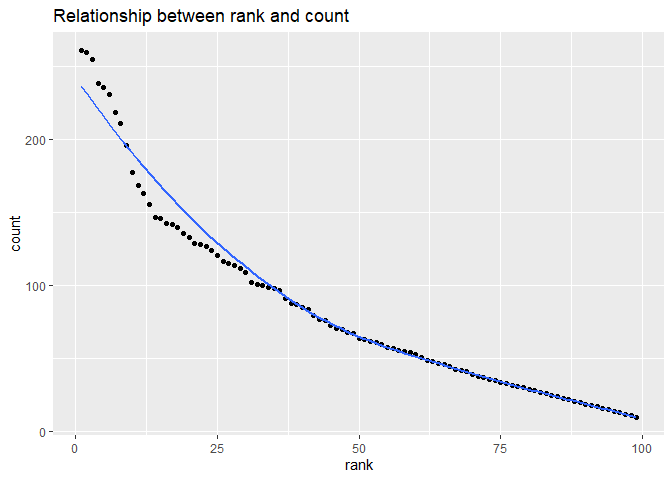
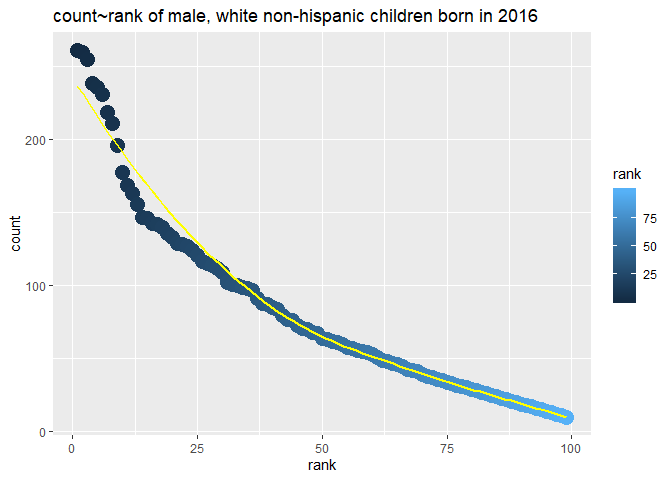
last commit

diff --git a/hw2-gx2144-to-Jeff.md b/hw2-gx2144-to-Jeff.md
@@ -155,14 +155,14 @@ snp =
   mutate(
     month = month.abb[month])
 
-unemplyment = 
+unemployment = 
   read.csv("./data/unemployment.csv")
-unemplyment = 
+unemployment = 
   pivot_longer(
-    unemplyment, 
+    unemployment, 
     Jan:Dec,
     names_to = "month", 
-    values_to = "unemplyment") %>% 
+    values_to = "unemployment") %>% 
   rename(year = Year)  %>%
   mutate(
     year = as.character(year)
@@ -180,7 +180,7 @@ result =
 
 ``` r
 finalresult = 
-  left_join(result, unemplyment, by = c("year","month"))
+  left_join(result, unemployment, by = c("year","month"))
 head(finalresult,5)
 ```
 
@@ -190,12 +190,12 @@ head(finalresult,5)
     ## 3 1947   Mar      23      51     253      23      45     198       gop
     ## 4 1947   Apr      23      51     253      23      45     198       gop
     ## 5 1947   May      23      51     253      23      45     198       gop
-    ##    day close unemplyment
-    ## 1 <NA>    NA          NA
-    ## 2 <NA>    NA          NA
-    ## 3 <NA>    NA          NA
-    ## 4 <NA>    NA          NA
-    ## 5 <NA>    NA          NA
+    ##    day close unemployment
+    ## 1 <NA>    NA           NA
+    ## 2 <NA>    NA           NA
+    ## 3 <NA>    NA           NA
+    ## 4 <NA>    NA           NA
+    ## 5 <NA>    NA           NA
 
 ``` r
 tail(finalresult,5)## show part of the table
@@ -207,17 +207,25 @@ tail(finalresult,5)## show part of the table
     ## 820 2015   Apr      31      54     244      18      44     188       gop
     ## 821 2015   May      31      54     245      18      44     188       gop
     ## 822 2015   Jun      31      54     246      18      44     188       gop
-    ##     day   close unemplyment
-    ## 818   2 2104.50         5.5
-    ## 819   2 2067.89         5.5
-    ## 820   1 2085.51         5.4
-    ## 821   1 2107.39         5.5
-    ## 822   1 2063.11         5.3
+    ##     day   close unemployment
+    ## 818   2 2104.50          5.5
+    ## 819   2 2067.89          5.5
+    ## 820   1 2085.51          5.4
+    ## 821   1 2107.39          5.5
+    ## 822   1 2063.11          5.3
 
 \*\*summary datasets
 
-There are 9 columns and 822 rows in pols\_month dataset. Variable names
-are “year”,“month”,“prez\_gop”,“sen\_gop” ""
+There are 9 columns and 822 rows in pols\_month dataset.Variable names
+are “year”,“month”,“prez\_gop”,“sen\_gop”
+“rep\_gop”,“prez\_dem”,“gov\_dem”,“sen\_dem”,“rep\_dem”.Year
+ranges from 1974\~2015.
+
+There are 4 columns and 787 rows in snp dataset. Variable names are
+“year”,“month”,“day”,“close”.Year ranges from 1950\~2015.
+
+There are 3 colunms and 816 rows in unemplyment dataset. Variable names
+are “year”,“month”,“unemployment”Year ranges from 1948\~2015.
 
 ## Problem 3
 
@@ -284,11 +292,11 @@ knitr::kable(popmalename)
 male_name = 
     filter(names, gender == "male" ,year_of_birth == "2016", 
            ethnicity == "white non hispanic" ) 
-male_nameplot = ggplot(male_name, aes(x = rank, y = count ))+
-  geom_point()+
-  geom_smooth(se = FALSE)+
+male_nameplot = ggplot(male_name, aes(x = rank, y = count,color = rank ))+
+  geom_point(size = 5)+
+  geom_smooth(se = FALSE,color="yellow")+
   labs(
-    title = "Relationship between rank and count"
+    title = "count~rank of male, white non-hispanic children born in 2016"
   )
 male_nameplot
 ```
